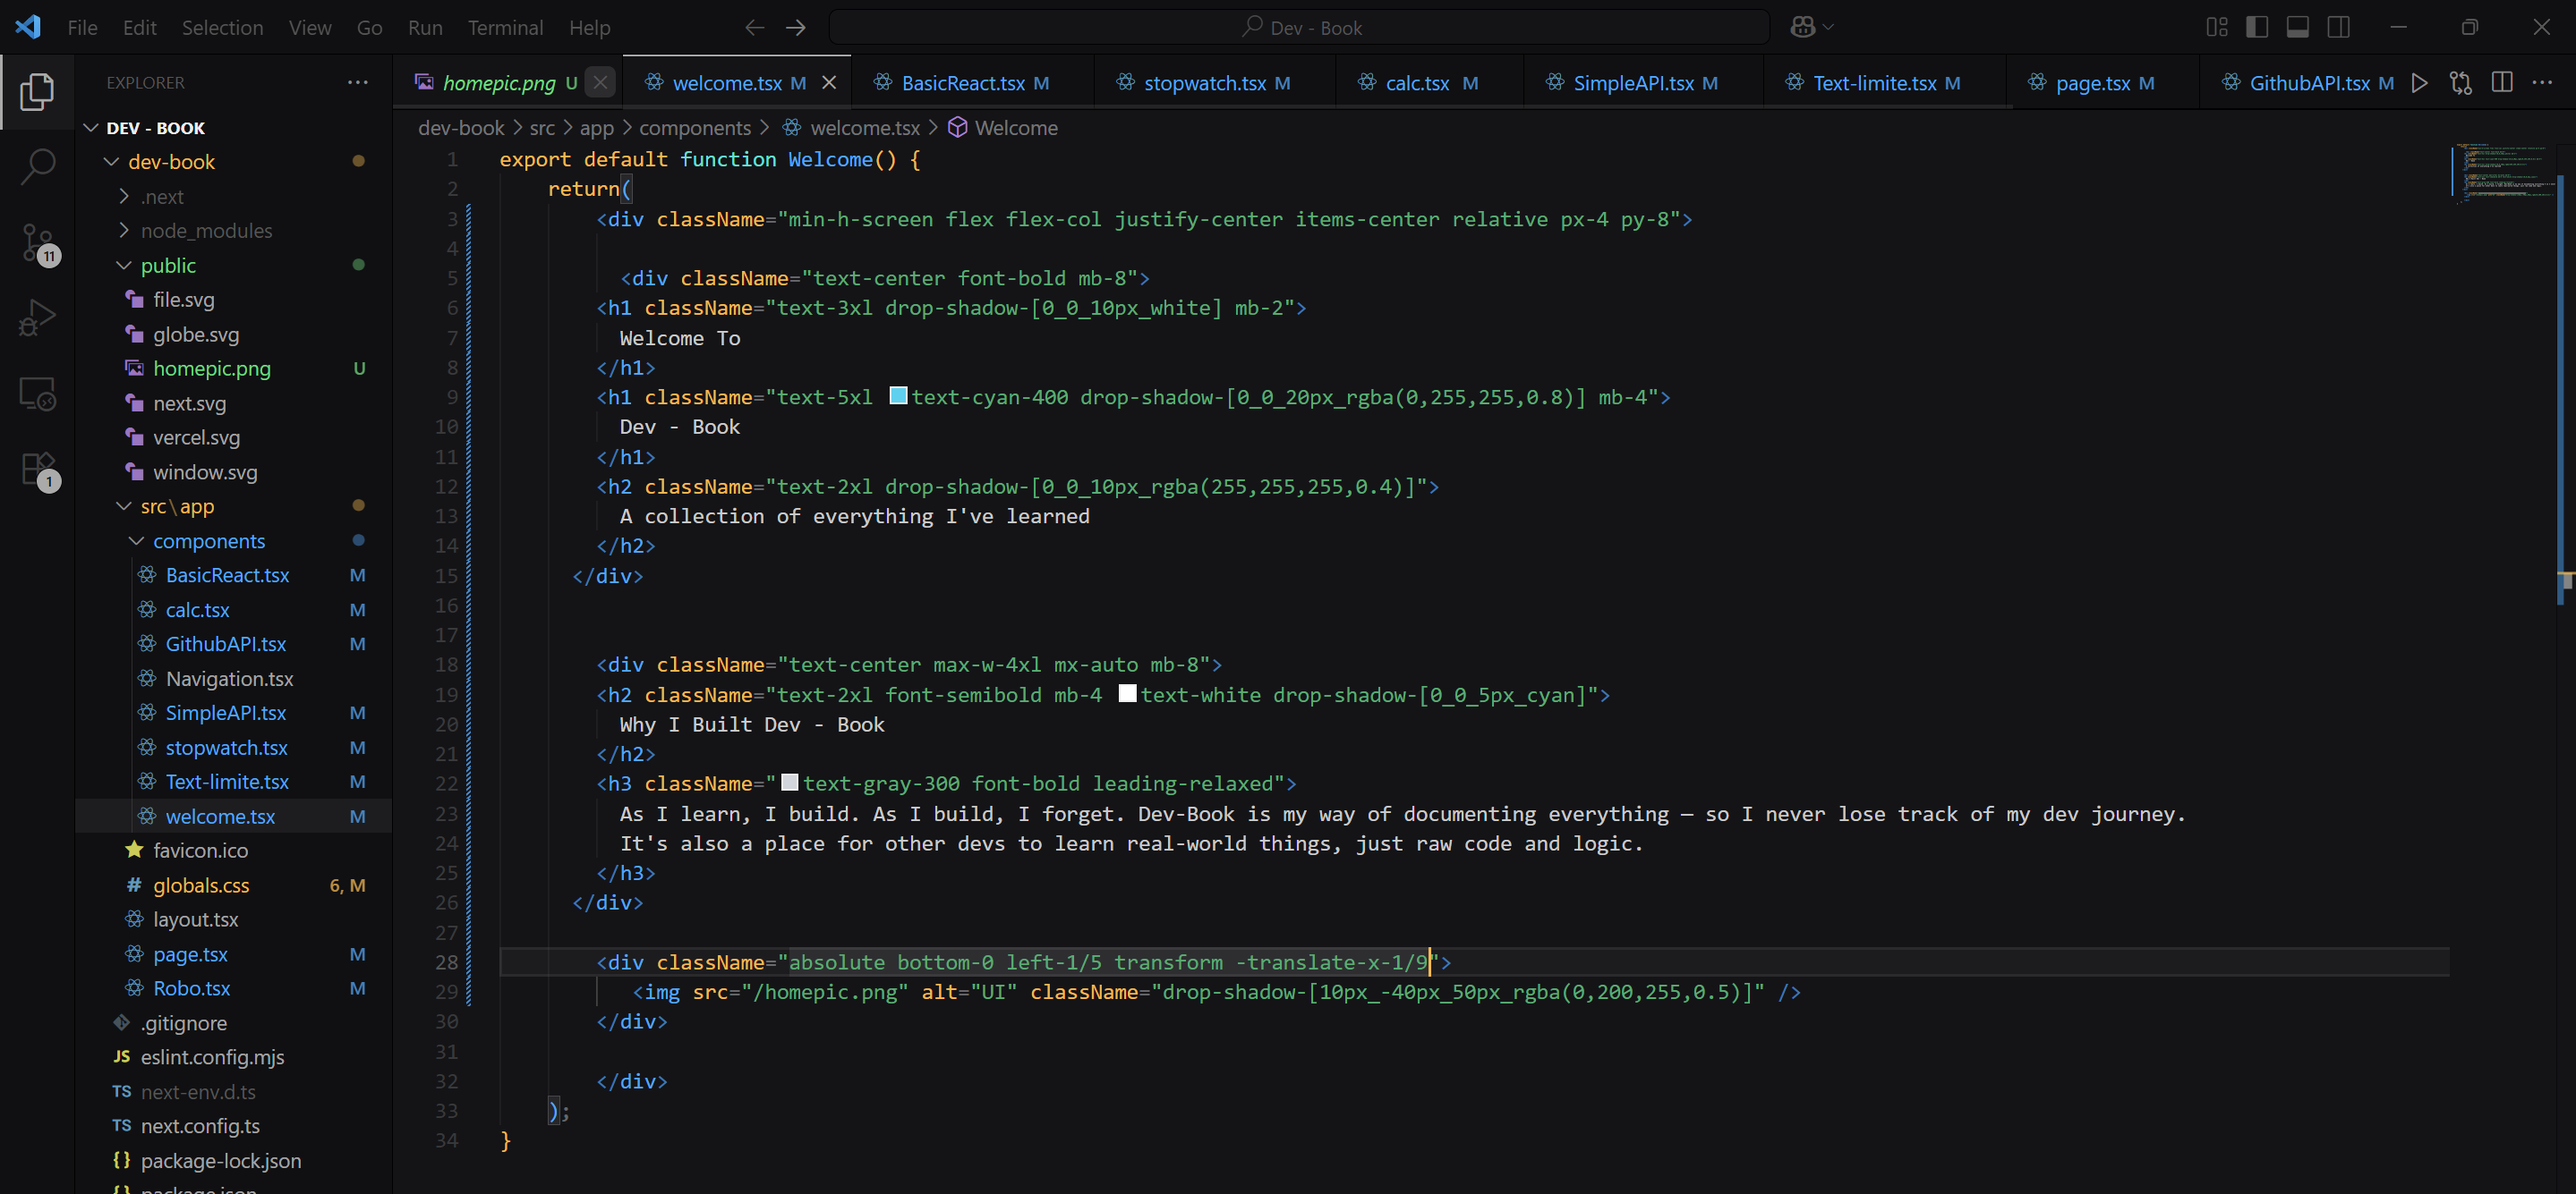
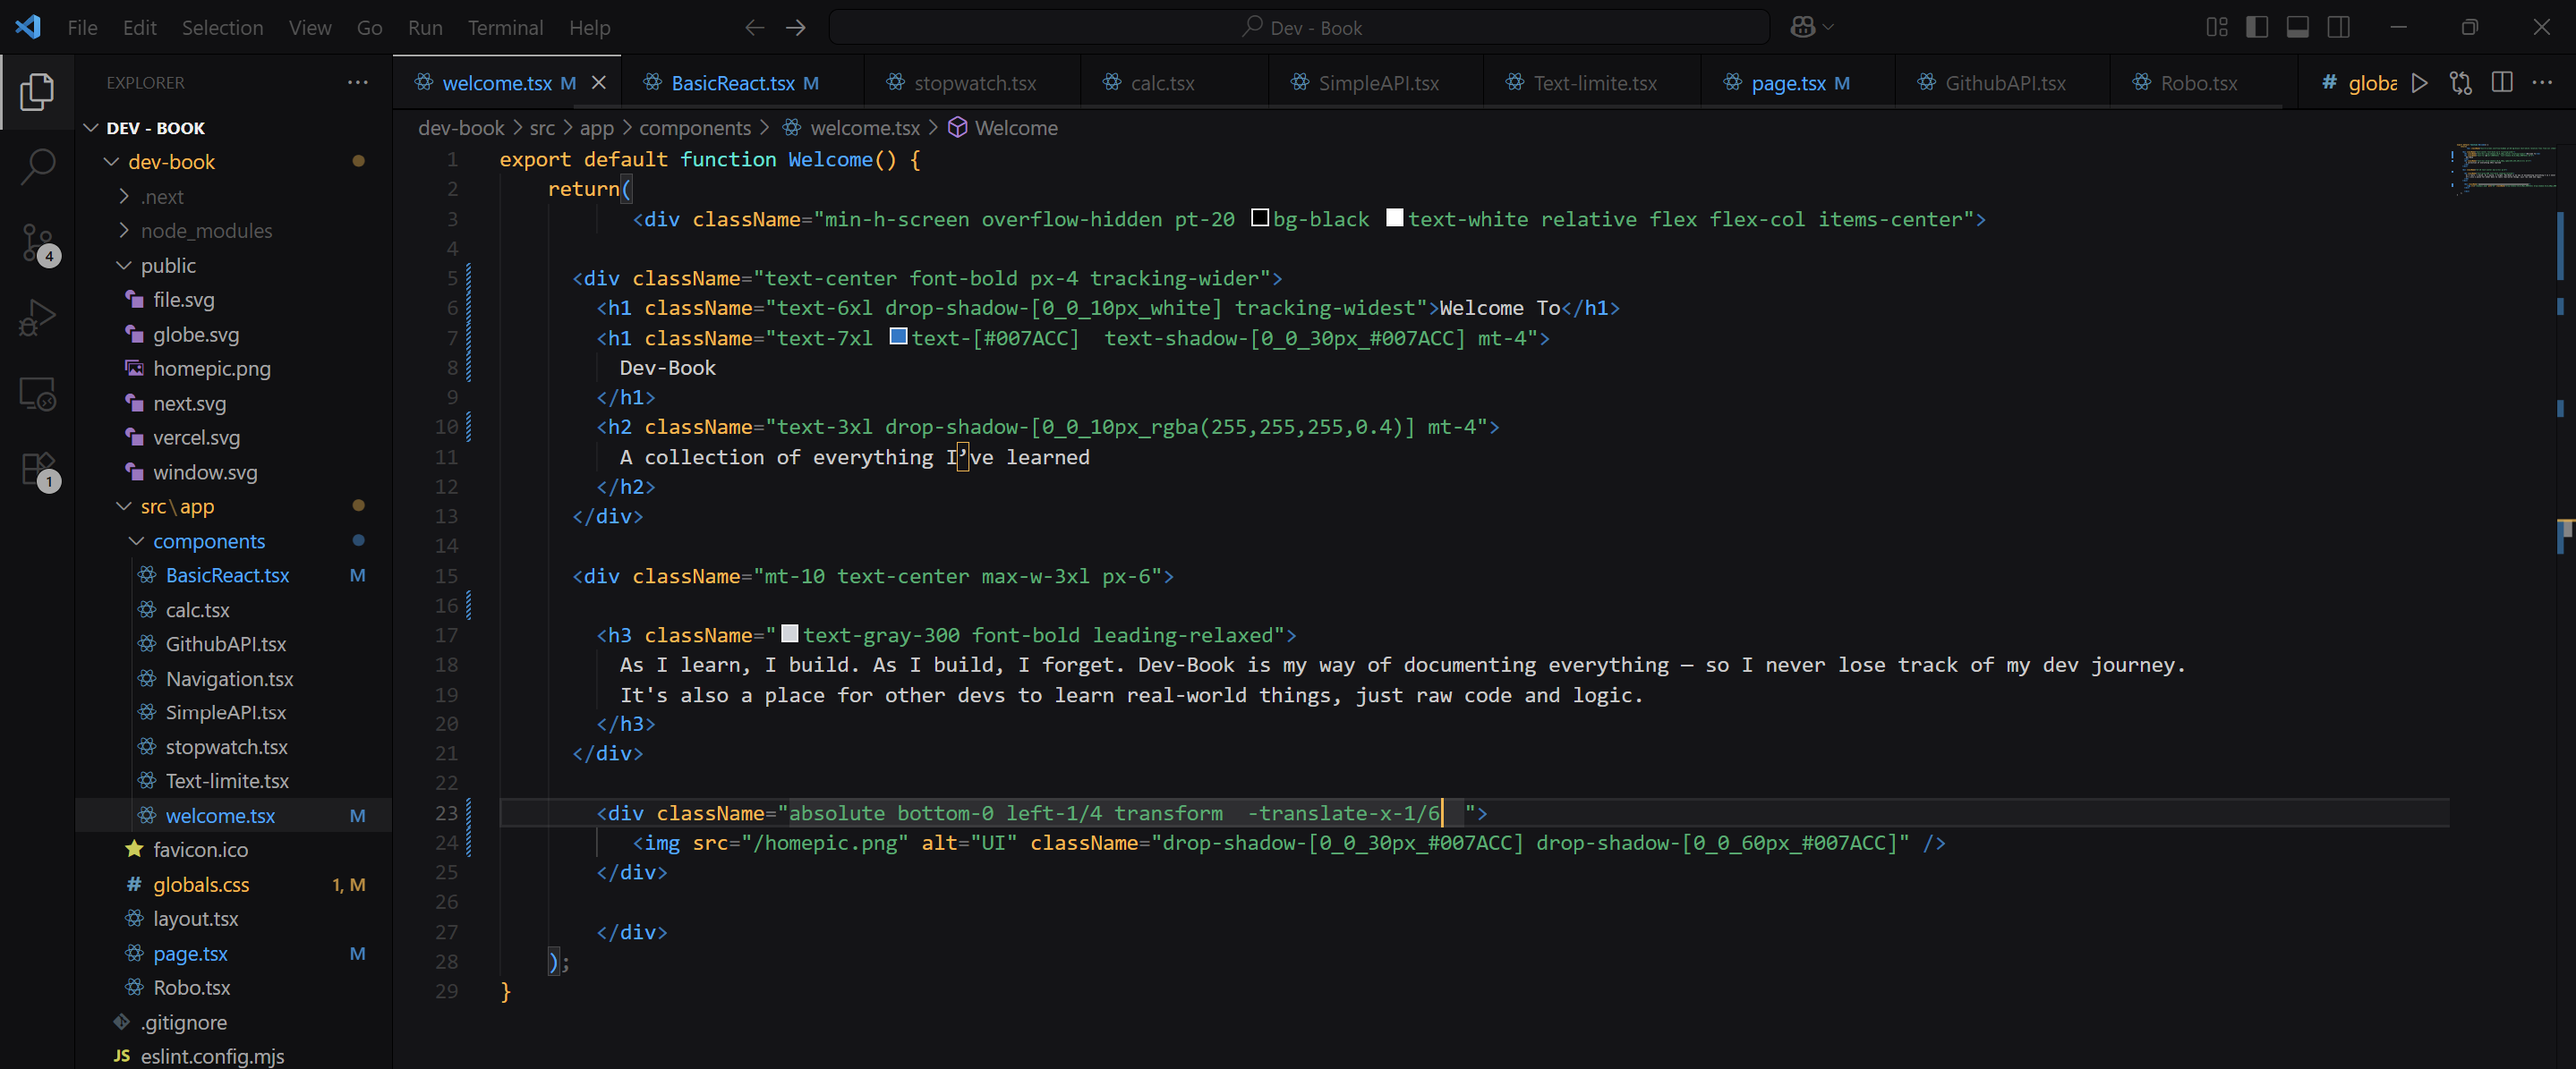
Welcome UI Done

diff --git a/src/app/globals.css b/src/app/globals.css
@@ -1,116 +1,7 @@
 @import "tailwindcss";
 
-@import url('https://fonts.googleapis.com/css2?family=Inter:wght@300;400;500;600;700;800;900&display=swap');
-@import url('https://fonts.googleapis.com/css2?family=JetBrains+Mono:wght@300;400;500;600;700&display=swap');
 
-* {
-  box-sizing: border-box;
-  padding: 0;
-  margin: 0;
-}
-
-html {
-  scroll-behavior: smooth;
-}
-
-body {
-  font-family: 'Inter', sans-serif;
-  line-height: 1.6;
-}
 
 .bg-dark {
   @apply bg-[rgb(18,18,18)] text-white;
-}
-
-.bg-gradient-primary {
-  background: linear-gradient(135deg, #667eea 0%, #764ba2 100%);
-}
-
-.bg-gradient-secondary {
-  background: linear-gradient(135deg, #f093fb 0%, #f5576c 100%);
-}
-
-.bg-gradient-dark {
-  background: linear-gradient(135deg, #1a1a1a 0%, #2d2d2d 100%);
-}
-
-.text-gradient {
-  background: linear-gradient(135deg, #667eea 0%, #764ba2 100%);
-  -webkit-background-clip: text;
-  -webkit-text-fill-color: transparent;
-  background-clip: text;
-}
-
-.glass-effect {
-  background: rgba(255, 255, 255, 0.1);
-  backdrop-filter: blur(10px);
-  border: 1px solid rgba(255, 255, 255, 0.2);
-}
-
-.code-font {
-  font-family: 'JetBrains Mono', monospace;
-}
-
-.section-padding {
-  @apply py-20 px-4 sm:px-6 lg:px-8;
-}
-
-.container-max {
-  @apply max-w-7xl mx-auto;
-}
-
-.card-hover {
-  @apply transition-all duration-300 hover:scale-105 hover:shadow-2xl;
-}
-
-.animate-fade-in {
-  animation: fadeIn 0.6s ease-in-out;
-}
-
-.animate-slide-up {
-  animation: slideUp 0.8s ease-out;
-}
-
-@keyframes fadeIn {
-  from {
-    opacity: 0;
-  }
-  to {
-    opacity: 1;
-  }
-}
-
-@keyframes slideUp {
-  from {
-    opacity: 0;
-    transform: translateY(30px);
-  }
-  to {
-    opacity: 1;
-    transform: translateY(0);
-  }
-}
-
-.scroll-indicator {
-  position: fixed;
-  top: 0;
-  left: 0;
-  width: 100%;
-  height: 3px;
-  background: linear-gradient(90deg, #667eea, #764ba2);
-  transform-origin: left;
-  z-index: 1000;
-}
-
-.nav-blur {
-  backdrop-filter: blur(10px);
-  background: rgba(18, 18, 18, 0.8);
-}
-
-.skill-badge {
-  @apply inline-flex items-center px-3 py-1 rounded-full text-sm font-medium bg-gradient-to-r from-purple-500 to-pink-500 text-white;
-}
-
-.experiment-card {
-  @apply bg-gradient-to-br from-gray-900 to-gray-800 rounded-xl p-6 border border-gray-700 hover:border-purple-500 transition-all duration-300;
 }

diff --git a/src/app/components/welcome.tsx b/src/app/components/welcome.tsx
@@ -2,28 +2,26 @@ export default function Welcome() {
     return(
            <div className="min-h-screen overflow-hidden pt-20 bg-black text-white relative flex flex-col items-center">
       
-      <div className="text-center font-bold px-4">
-        <h1 className="text-3xl drop-shadow-[0_0_10px_white]">Welcome To</h1>
-        <h1 className="text-5xl text-cyan-400 drop-shadow-[0_0_20px_rgba(0,255,255,0.8)] mt-2">
-          Dev - Book
+      <div className="text-center font-bold px-4 tracking-wider">
+        <h1 className="text-6xl drop-shadow-[0_0_10px_white] tracking-widest">Welcome To</h1>
+        <h1 className="text-7xl text-[#007ACC]  text-shadow-[0_0_30px_#007ACC] mt-4">
+          Dev-Book
         </h1>
-        <h2 className="text-2xl drop-shadow-[0_0_10px_rgba(255,255,255,0.4)]">
+        <h2 className="text-3xl  text-shadow-[0_0_5px_white] mt-4">
           A collection of everything I’ve learned
         </h2>
       </div>
       
       <div className="mt-10 text-center max-w-3xl px-6">
-        <h2 className="text-2xl font-semibold mb-2 text-white drop-shadow-[0_0_5px_cyan]">
-          Why I Built Dev - Book
-        </h2>
+       
         <h3 className="text-gray-300 font-bold leading-relaxed">
           As I learn, I build. As I build, I forget. Dev-Book is my way of documenting everything — so I never lose track of my dev journey.
           It's also a place for other devs to learn real-world things, just raw code and logic.
         </h3>
       </div>
 
-        <div className="absolute bottom-0 left-1/3 transform  -translate-x-1/4">
-           <img src="/homepic.png" alt="UI" className="drop-shadow-[10px_-40px_50px_rgba(0,200,255,0.5)]" />
+        <div className="absolute bottom-0 left-1/4 transform  -translate-x-1/6  ">
+           <img src="/homepic.png" alt="UI" className="drop-shadow-[0_0_30px_#007ACC] drop-shadow-[0_0_60px_#007ACC]" />
         </div>
         
         </div>

diff --git a/src/app/components/BasicReact.tsx b/src/app/components/BasicReact.tsx
@@ -64,8 +64,8 @@ export default function BasicReact() {
 
     return (
         <div className={`min-h-screen ${mode ? "bg-black text-white" : "bg-white text-black"}`}>
-            <div>
-                <h1>-Count-</h1>
+            <div className="p-10">
+                <h1 className="p-10">-Count-</h1>
 
                 <button
                     className=" bg-black text-white"

diff --git a/src/app/page.tsx b/src/app/page.tsx
@@ -14,7 +14,7 @@ import Github from "./components/GithubAPI";
 export default function Home() {
   return (
 
-    <main className="bg-dark text-white">
+    <main className="bg-dark  overflow-hidden ">
       <section>
         <Welcome />
       </section>
